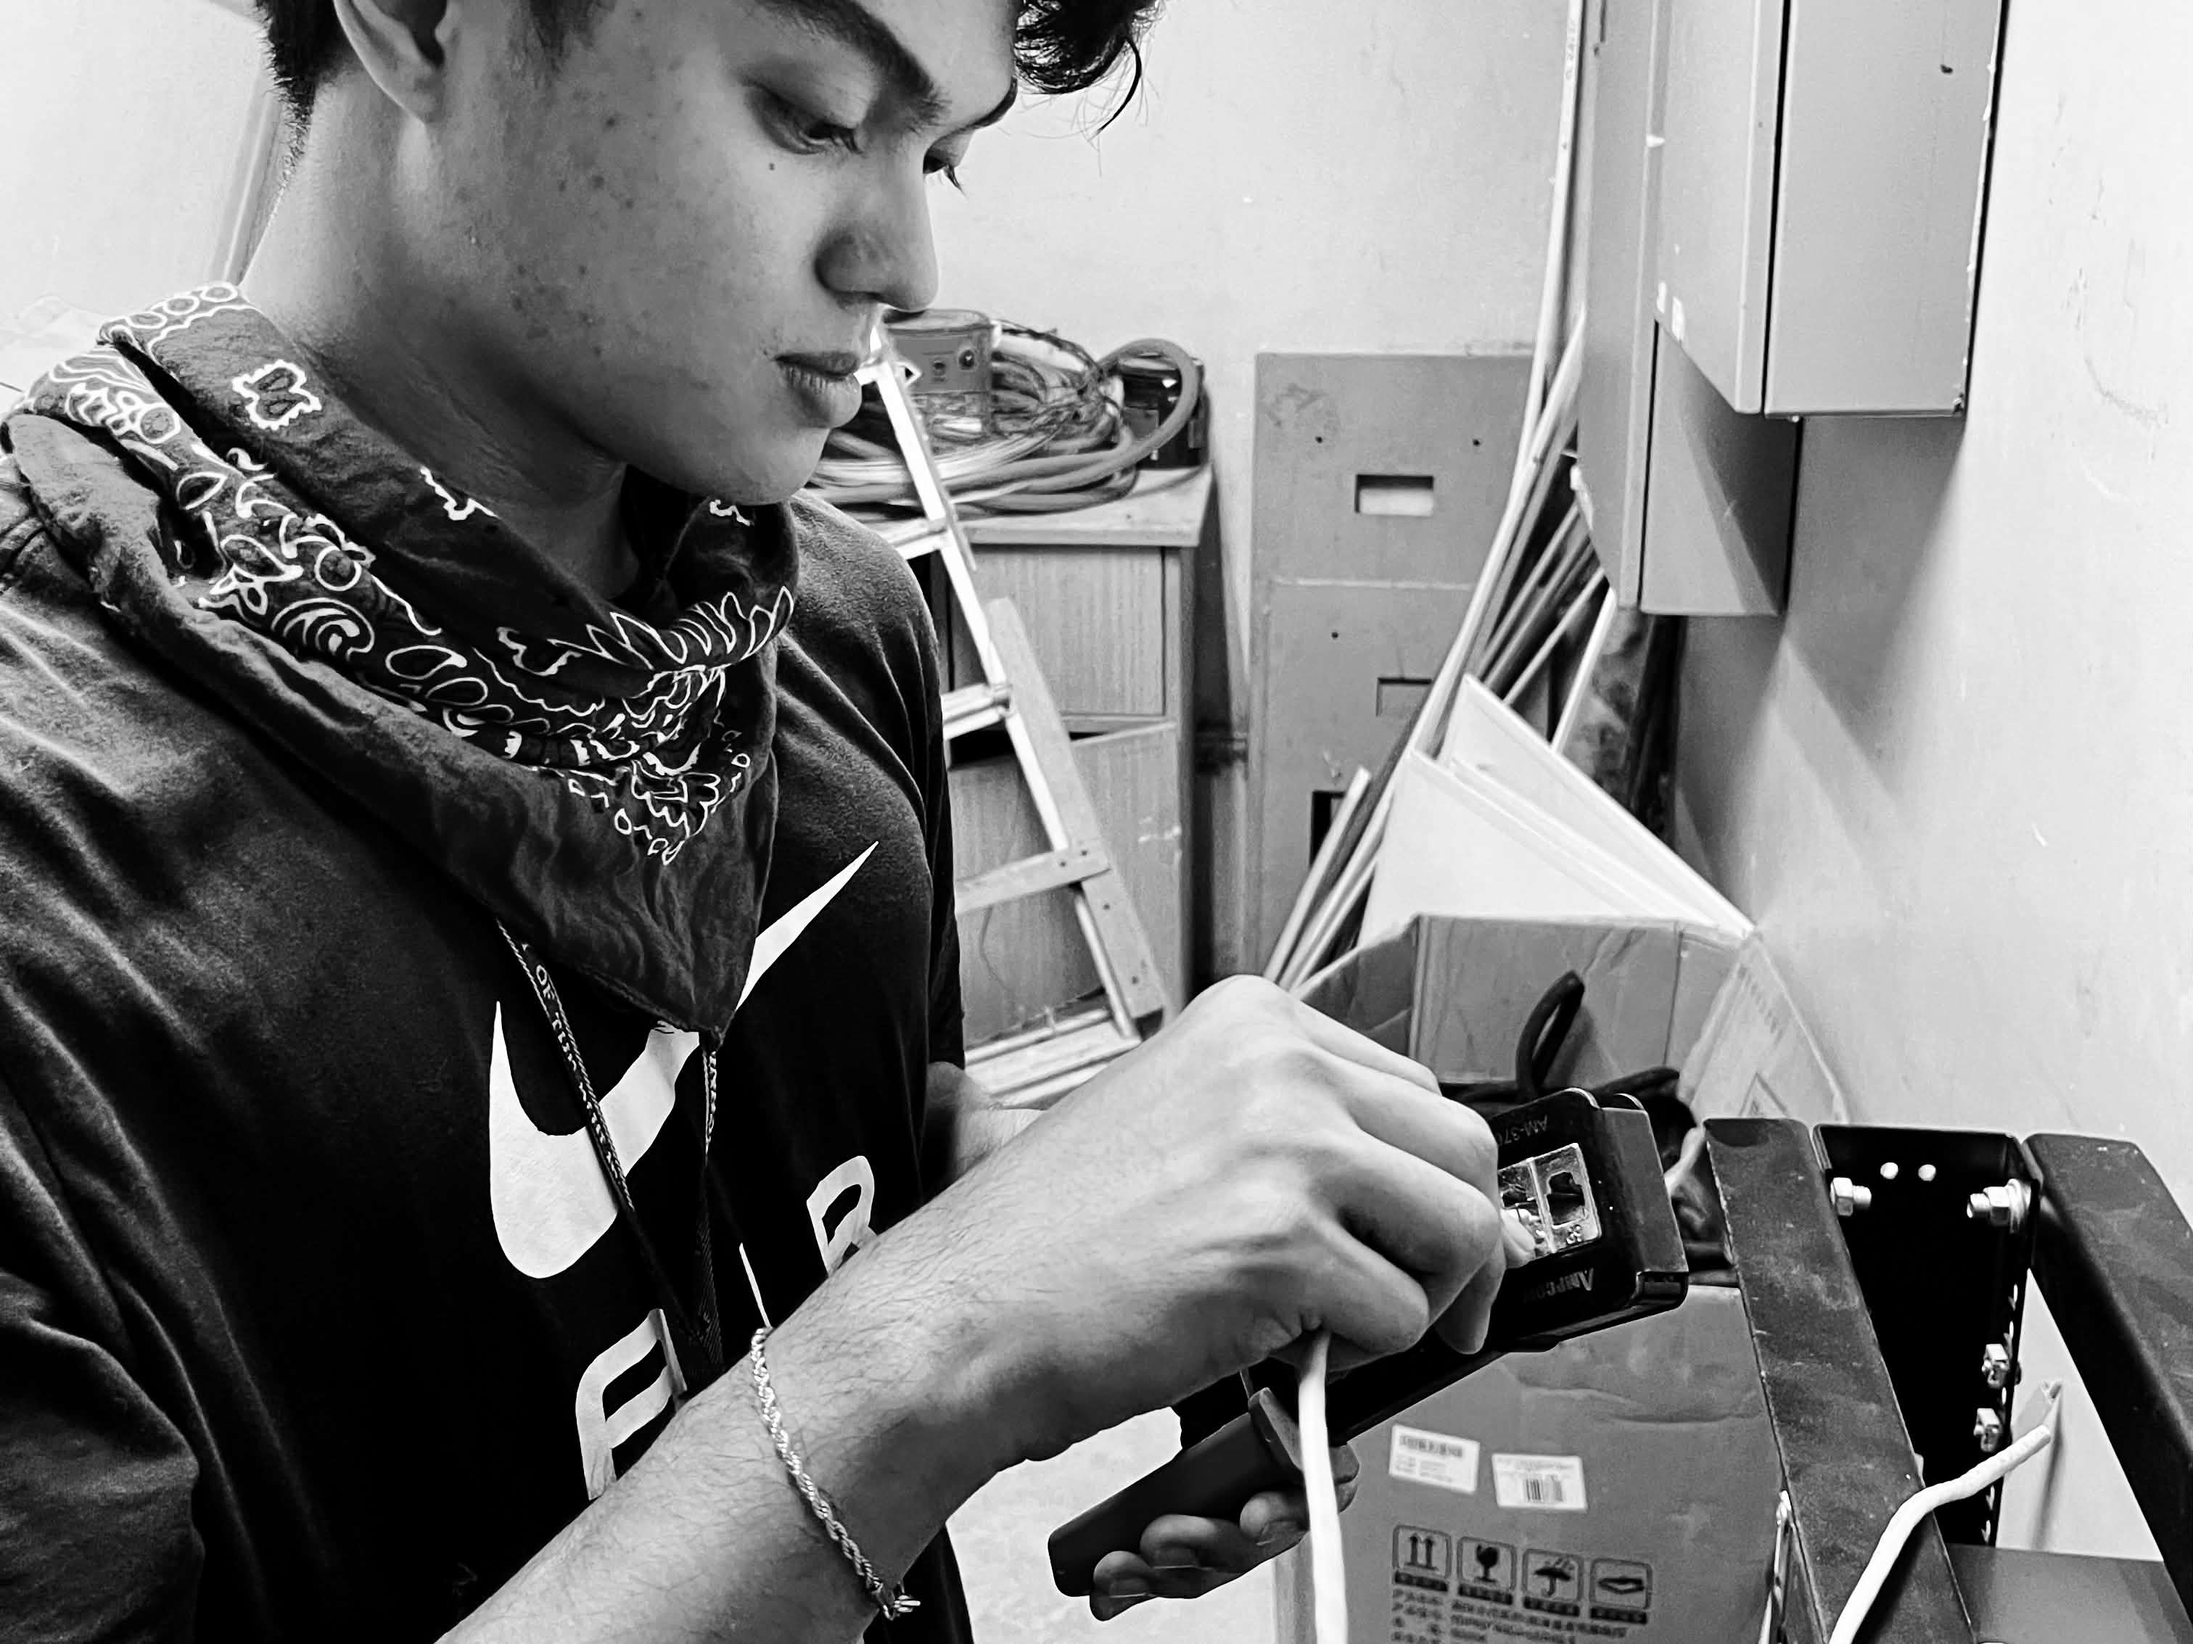
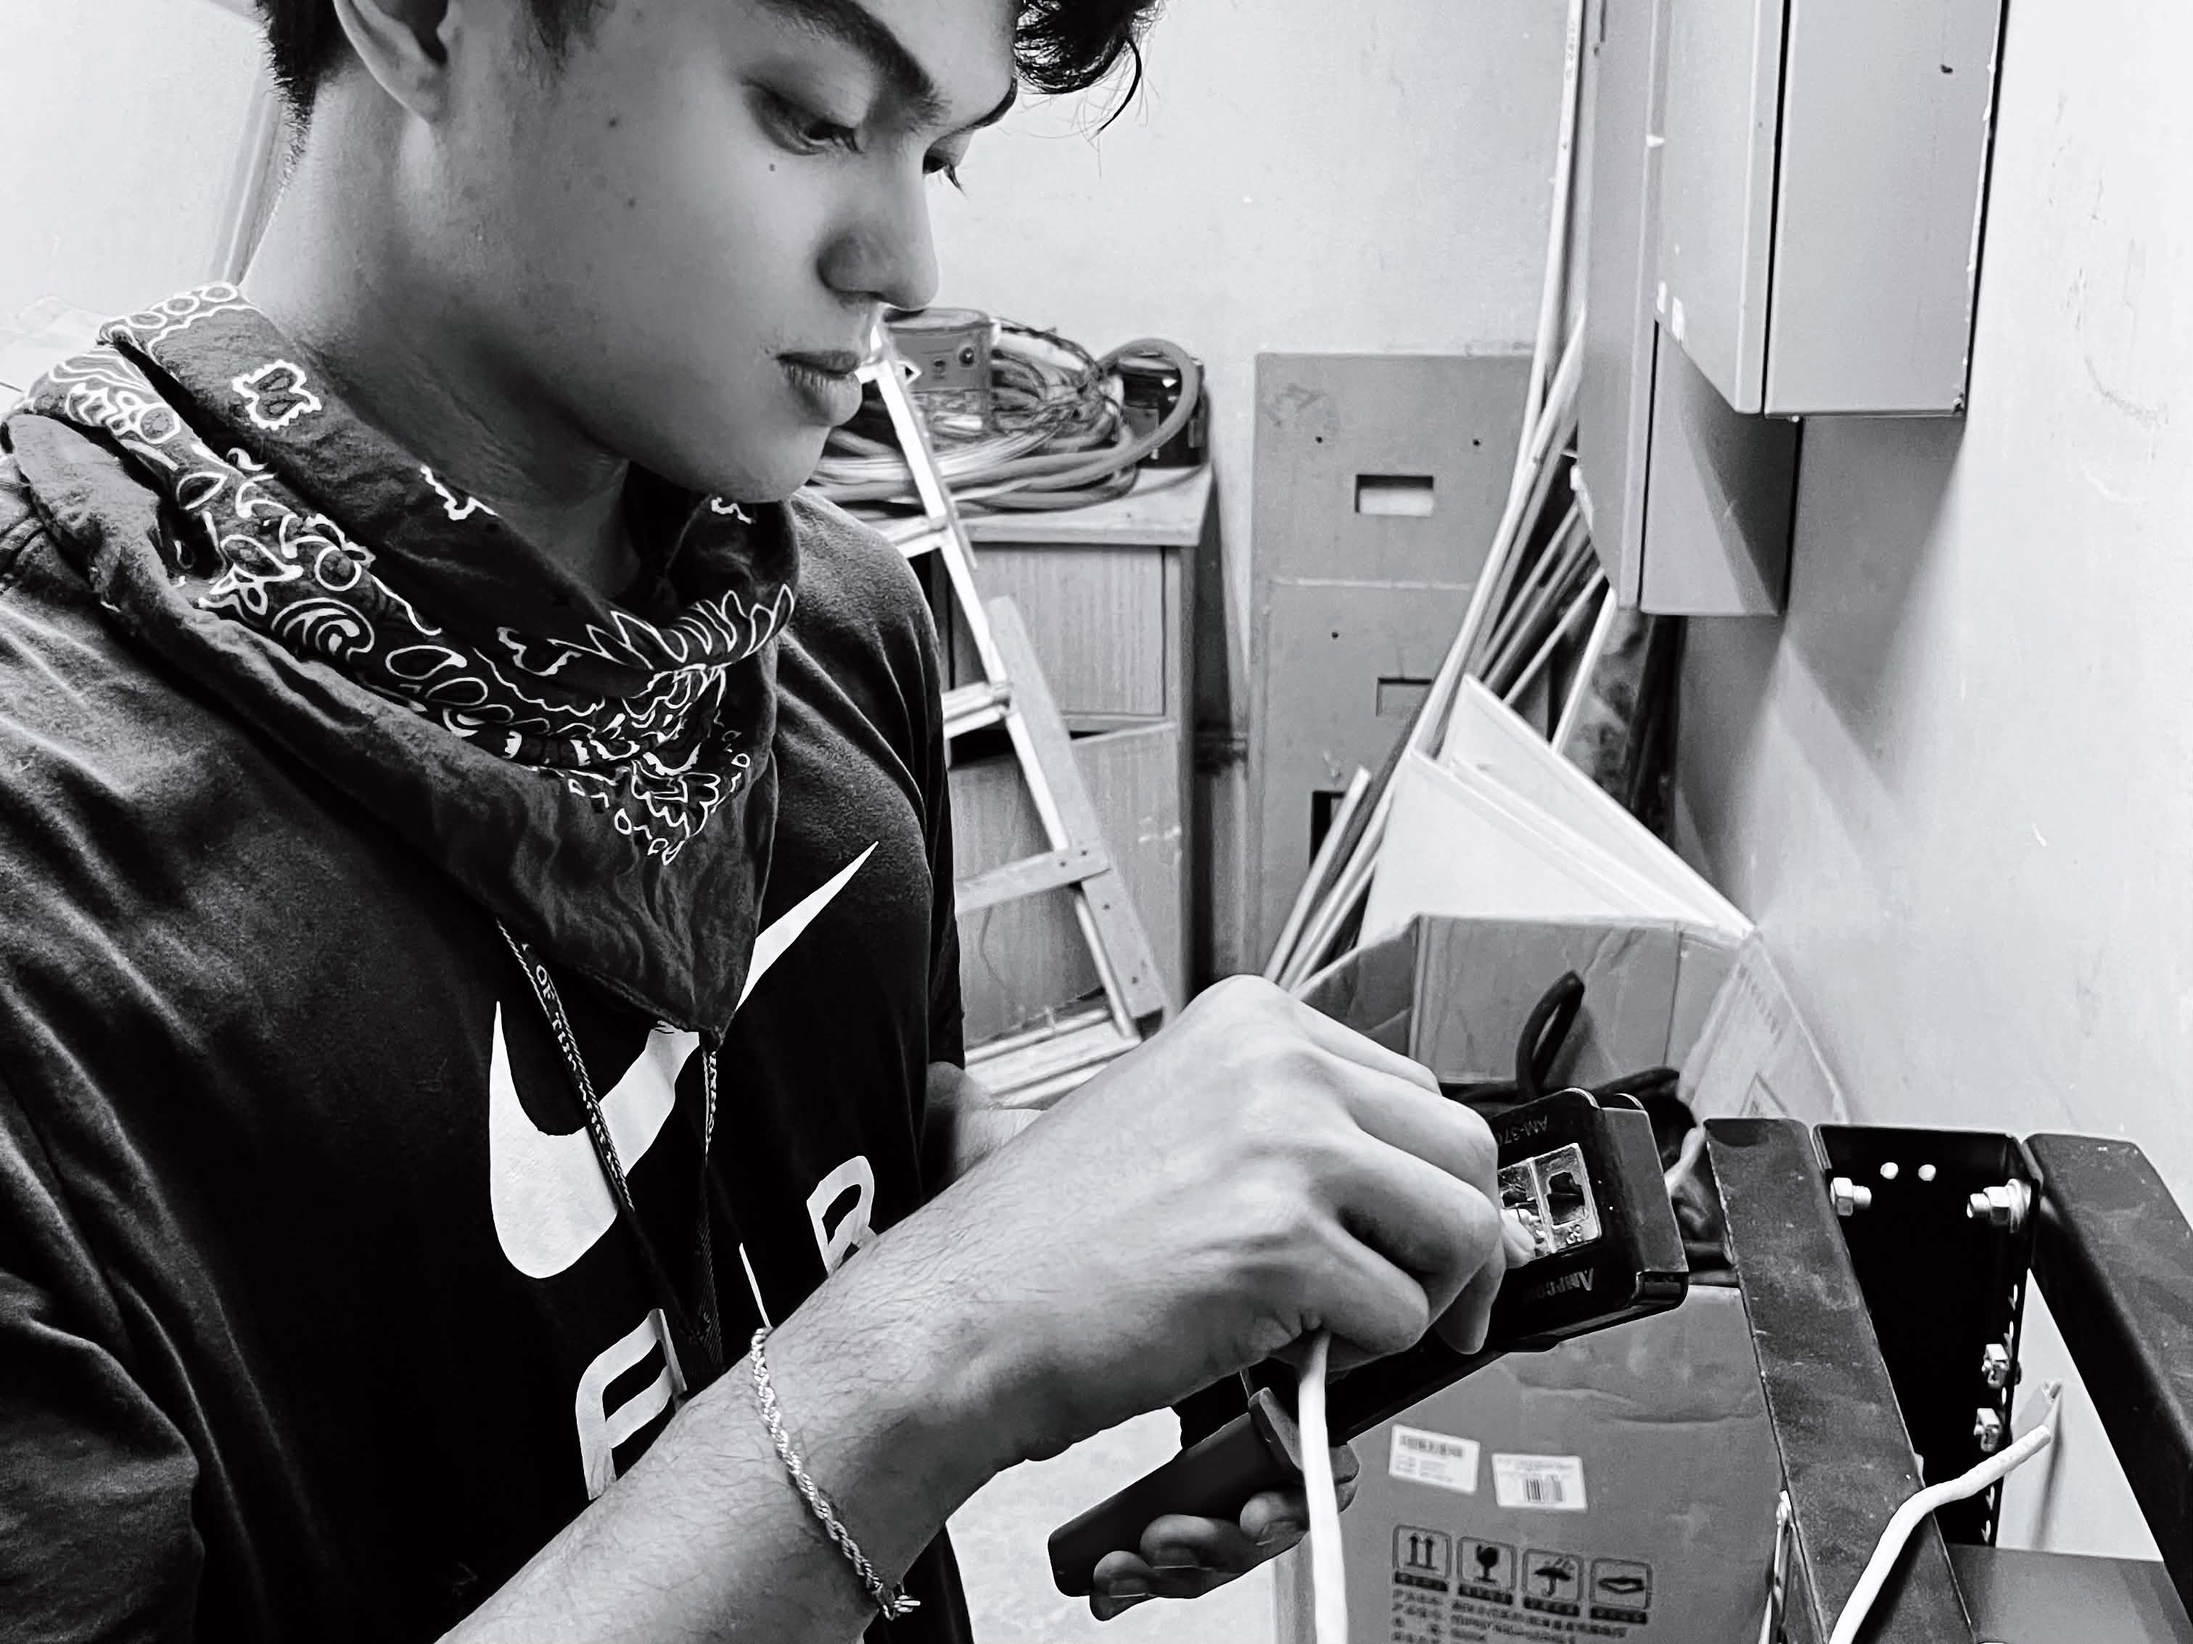
changed image

Changed region(s): [[0.2799, 0.1853, 0.5286, 0.4632], [0.1866, 0.2779, 0.2177, 0.3088], [0.1866, 0.0309, 0.2177, 0.0618]]

diff --git a/Intern/styles/hero.css b/Intern/styles/hero.css
@@ -146,6 +146,41 @@
     text-decoration: none;
 }
 
+/* SCROLL HINT */
+
+.scroll-hint {
+    display: flex;
+    flex-direction: column;
+    align-items: center;
+    gap: 6px;
+    margin-top: 90px;
+    opacity: 0.35;
+    transition: opacity 0.3s;
+}
+
+.scroll-hint:hover {
+    opacity: 0.65;
+}
+
+.scroll-hint-text {
+    font-family: "Press Start 2P", monospace;
+    font-size: 0.45rem;
+    letter-spacing: 2px;
+    color: #fff;
+    text-transform: uppercase;
+}
+
+.scroll-hint-arrow {
+    font-size: 0.9rem;
+    color: #fff;
+    animation: scrollBounce 1.4s ease-in-out infinite;
+}
+
+@keyframes scrollBounce {
+    0%, 100% { transform: translateY(0); }
+    50%       { transform: translateY(5px); }
+}
+
 /* HERO BADGES */
 
 
@@ -355,5 +390,9 @@
         align-items: center;
         gap: 12px;
         margin-top: 24px;
+    }
+
+    .scroll-hint {
+        margin-top: 28px;
     }
 }

diff --git a/Intern/hero.html b/Intern/hero.html
@@ -43,6 +43,12 @@
         </a>
       </div>
 
+      <!-- SCROLL DOWN HINT -->
+      <div class="scroll-hint">
+        <span class="scroll-hint-text">scroll down</span>
+        <span class="scroll-hint-arrow">↓</span>
+      </div>
+
     </div>
 
     <div class="profile-hero">
